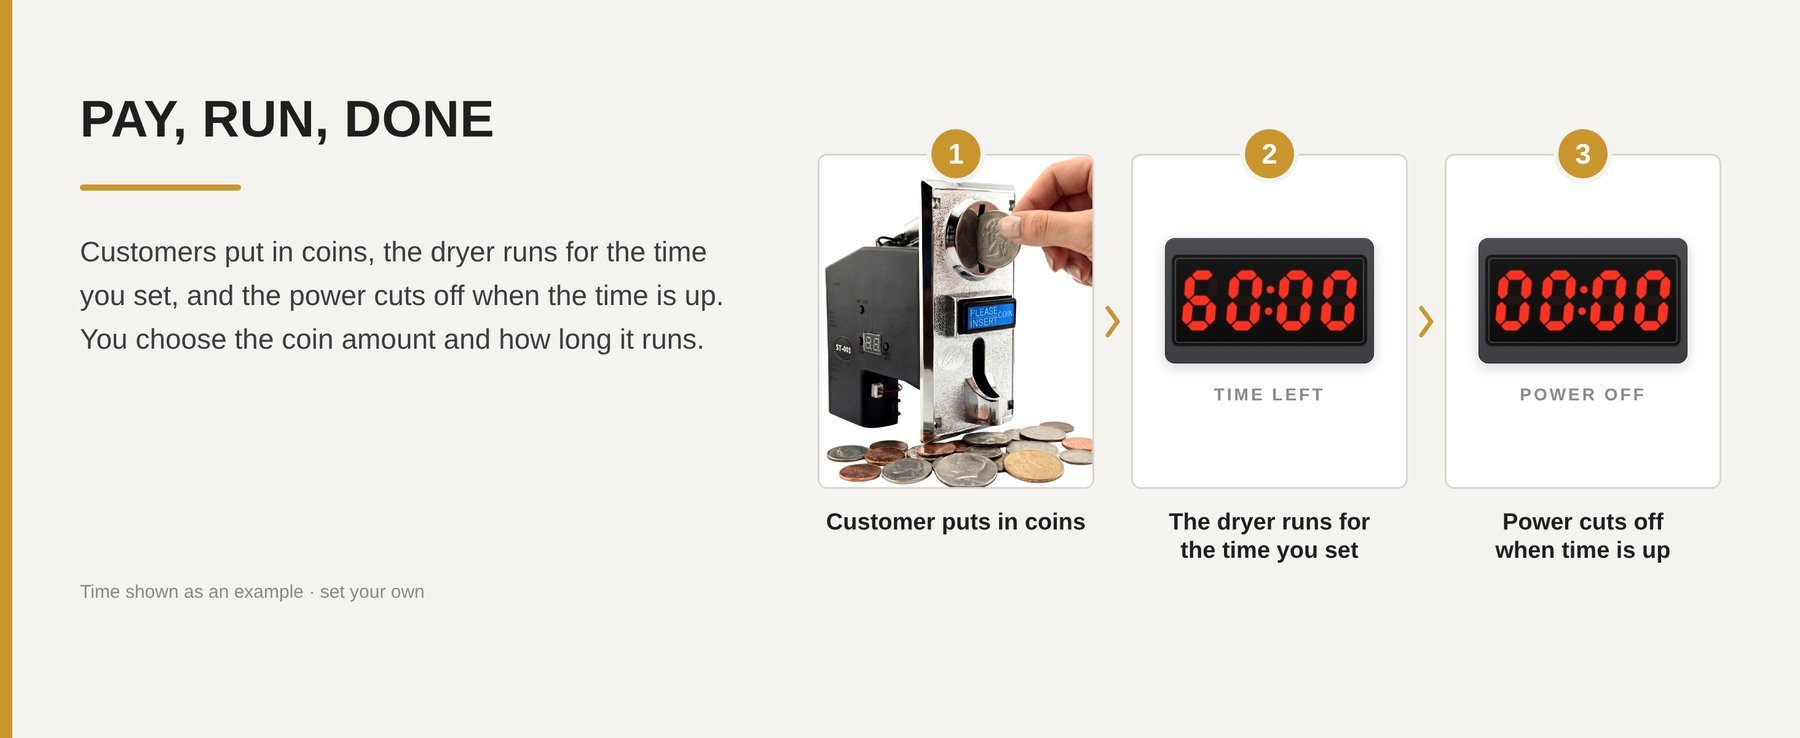
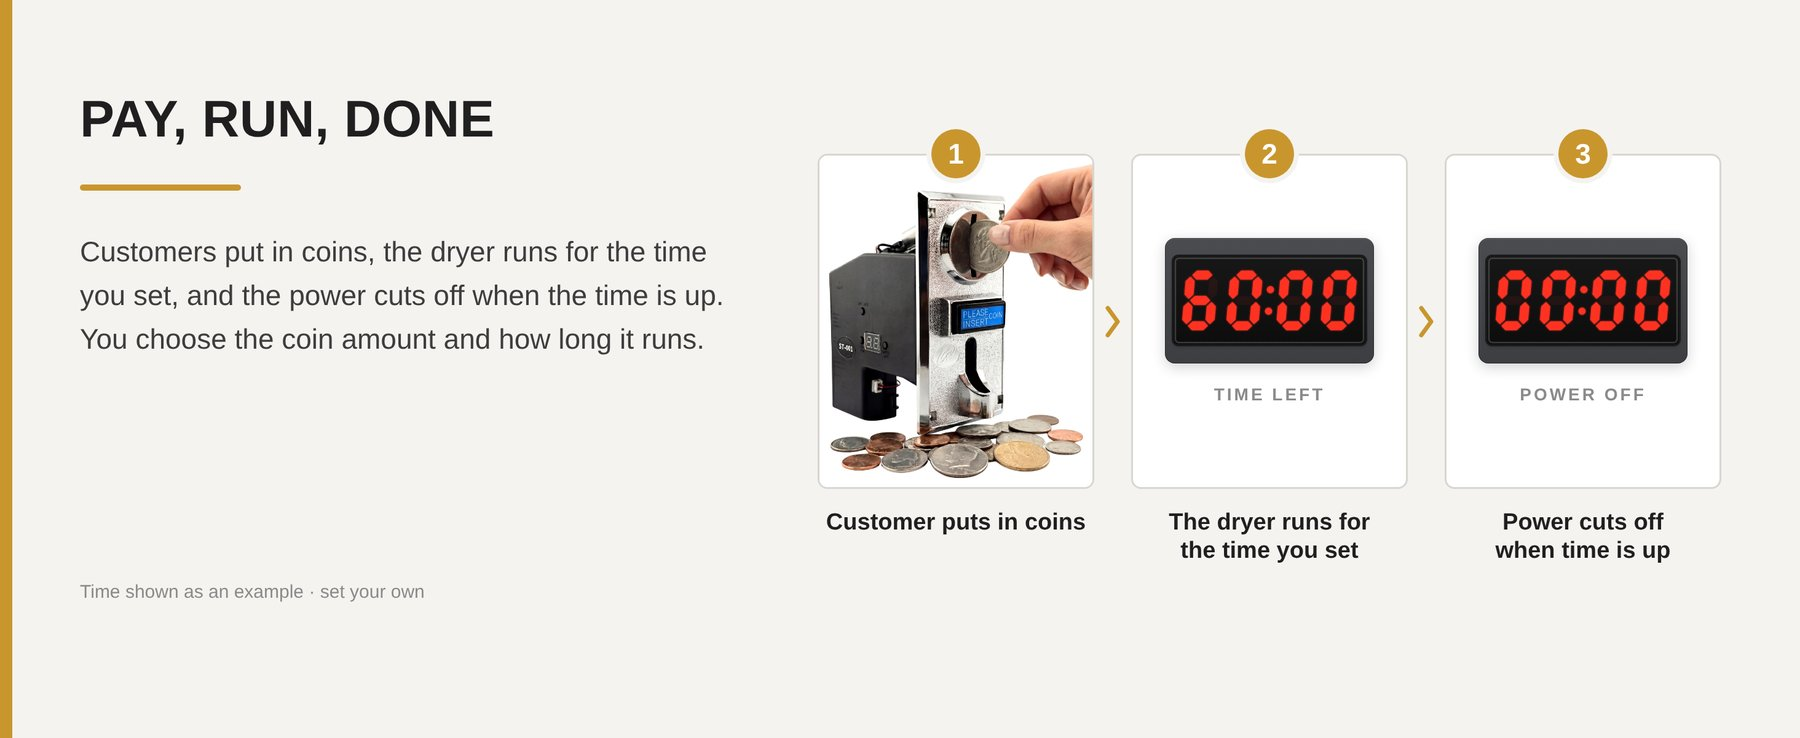
Add titles, item highlights and bullets; new A+ 3-4 image

Changed region(s): [[0.4356, 0.2182, 0.6222, 0.6856], [0.4356, 0.5298, 0.4667, 0.561]]

diff --git a/index.html b/index.html
@@ -62,6 +62,8 @@ img{max-width:100%;display:block}
 
 h1.title{font-size:23px;line-height:1.35;font-weight:400;color:var(--ink);margin-bottom:8px}
 .byline{font-size:13.5px;color:var(--amz);margin-bottom:10px}
+.hl{font-size:14px;line-height:1.5;color:var(--ink);margin:4px 0 6px}
+.hlK{display:block;font-size:11px;font-weight:700;letter-spacing:.6px;color:var(--muted);text-transform:uppercase;margin-bottom:2px}
 .price{font-size:26px;color:var(--amzPrice);font-weight:400;margin:12px 0 4px}
 .abt{font-size:15px;font-weight:700;color:var(--ink);margin:18px 0 8px}
 ul.bul{list-style:disc;padding-left:20px}
@@ -160,6 +162,9 @@ table.cmp thead th.hit{background:var(--gold);color:var(--ink)}
   <div>
     <h1 class="title" id="title"></h1>
     <div class="byline">Visit the Sintron Store</div>
+    <div class="hl"><span class="hlK">Item Highlights</span><span id="hl"></span></div>
+    <div class="abt">About this item</div>
+    <ul class="bul" id="bullets"></ul>
   </div>
 </div>
 
@@ -228,10 +233,23 @@ table.cmp thead th.hit{background:var(--gold);color:var(--ink)}
 <script>
 /* ============ 三個版本的資料 ============ */
 const V = {
- a:{ dir:"10-30R",          title:"Sintron ST-003 Coin-Operated Timer Controller · NEMA 10-30R" },
- b:{ dir:"14-30R-Standard", title:"Sintron ST-003 Coin-Operated Timer Controller · NEMA 14-30R Standard" },
- c:{ dir:"14-30R-Reverse",  title:"Sintron ST-003 Coin-Operated Timer Controller · NEMA 14-30R Reverse" }
+ a:{ dir:"10-30R", title:"Sintron ST-003 Coin Operated Timer Box, 240V Dryer, 3-Prong NEMA 10-30P",
+     hl:"For 220V–240V electric dryers up to 30A. 3-prong NEMA 10-30P cord attached. US and Canadian coins pre-set." },
+ b:{ dir:"14-30R-Standard", title:"Sintron ST-003 Coin Operated Timer Box, 240V Dryer, 4-Prong NEMA 14-30P",
+     hl:"For 220V–240V electric dryers up to 30A. 4-prong NEMA 14-30P Standard cord attached. US and Canadian coins pre-set." },
+ c:{ dir:"14-30R-Reverse", title:"Sintron ST-003 Coin Operated Timer Box, 240V Dryer, 4-Prong 14-30P Reverse",
+     hl:"For 220V–240V electric dryers up to 30A. 4-prong NEMA 14-30P Reverse cord attached. US and Canadian coins pre-set." }
 };
+
+/* About this item：三個版本相同（2026-11-23 定稿）*/
+const BUL = [
+ "🔐【SUPERIOR PERFORMANCE】The Sintron ST-003 introduces a new design tailored for US/Canada 220V–240V electric dryers, supporting up to 30A. Enhanced with dual solid-state relays and DIN fuses you can swap in seconds.",
+ "🔐【COIN PAYMENTS】The ST-003 Timer Control Power Box takes up to 8 coin types through the Sintron ST-001 coin acceptor, tokens included, and you set what each one is worth. Standard US and Canadian coins — quarters, loonies and toonies — are set before it ships. For coins plus mobile pay, choose the Sintron ST-005.",
+ "🔐【CUSTOMIZABLE RUN TIME】You have the flexibility to set how many coins it takes and how long the dryer runs, up to 99:59 in minutes:seconds or hours:minutes. The LED display shows the time left, a beep and a flashing display warn that time is almost up, and the power cuts off at 00:00.",
+ "🔐【BUILT-IN COUNTER】The ST-003 keeps count of what it has taken in. Press COUNTER on the timer board to see the total since your last reset — handy for a daily or weekly check against the coin tray — and press again for the all-time total, which can't be reset.",
+ "🔐【BUILT FOR LAUNDRY】Engineered specifically for US and Canadian electric dryers, the ST-003 Timer Control Power Box provides reliable runtime and payment management for self-service laundry facilities. It plugs in between the wall outlet and the dryer, with no rewiring. For 110V–120V outlets and gas dryers, choose the Sintron ST-002.",
+ "🔐【QUALIFIED PRODUCT】We have applied for a patent for this product. All cables used meet safety regulations to protect your safety!"
+];
 
 const GAL = ["1.jpg","2.jpg","3.jpg","4.jpg","5.jpg","6.jpg","7.jpg","8.jpg","9.jpg"];
 const AP1 = ["g1-1.jpg","g1-2.jpg","g1-3.jpg","g1-4.jpg"];
@@ -332,6 +350,9 @@ function render(v){
  const d = V[v];
  document.querySelectorAll(".tab").forEach(b=>b.classList.toggle("on", b.dataset.v===v));
  $("#title").textContent = d.title;
+ $("#hl").textContent = d.hl;
+ const ul = $("#bullets"); ul.innerHTML = "";
+ BUL.forEach(t => { const li = document.createElement("li"); li.textContent = t; ul.appendChild(li); });
 
  /* 主圖組 */
  $("#thumbs").innerHTML = GAL.map((f,i)=>
